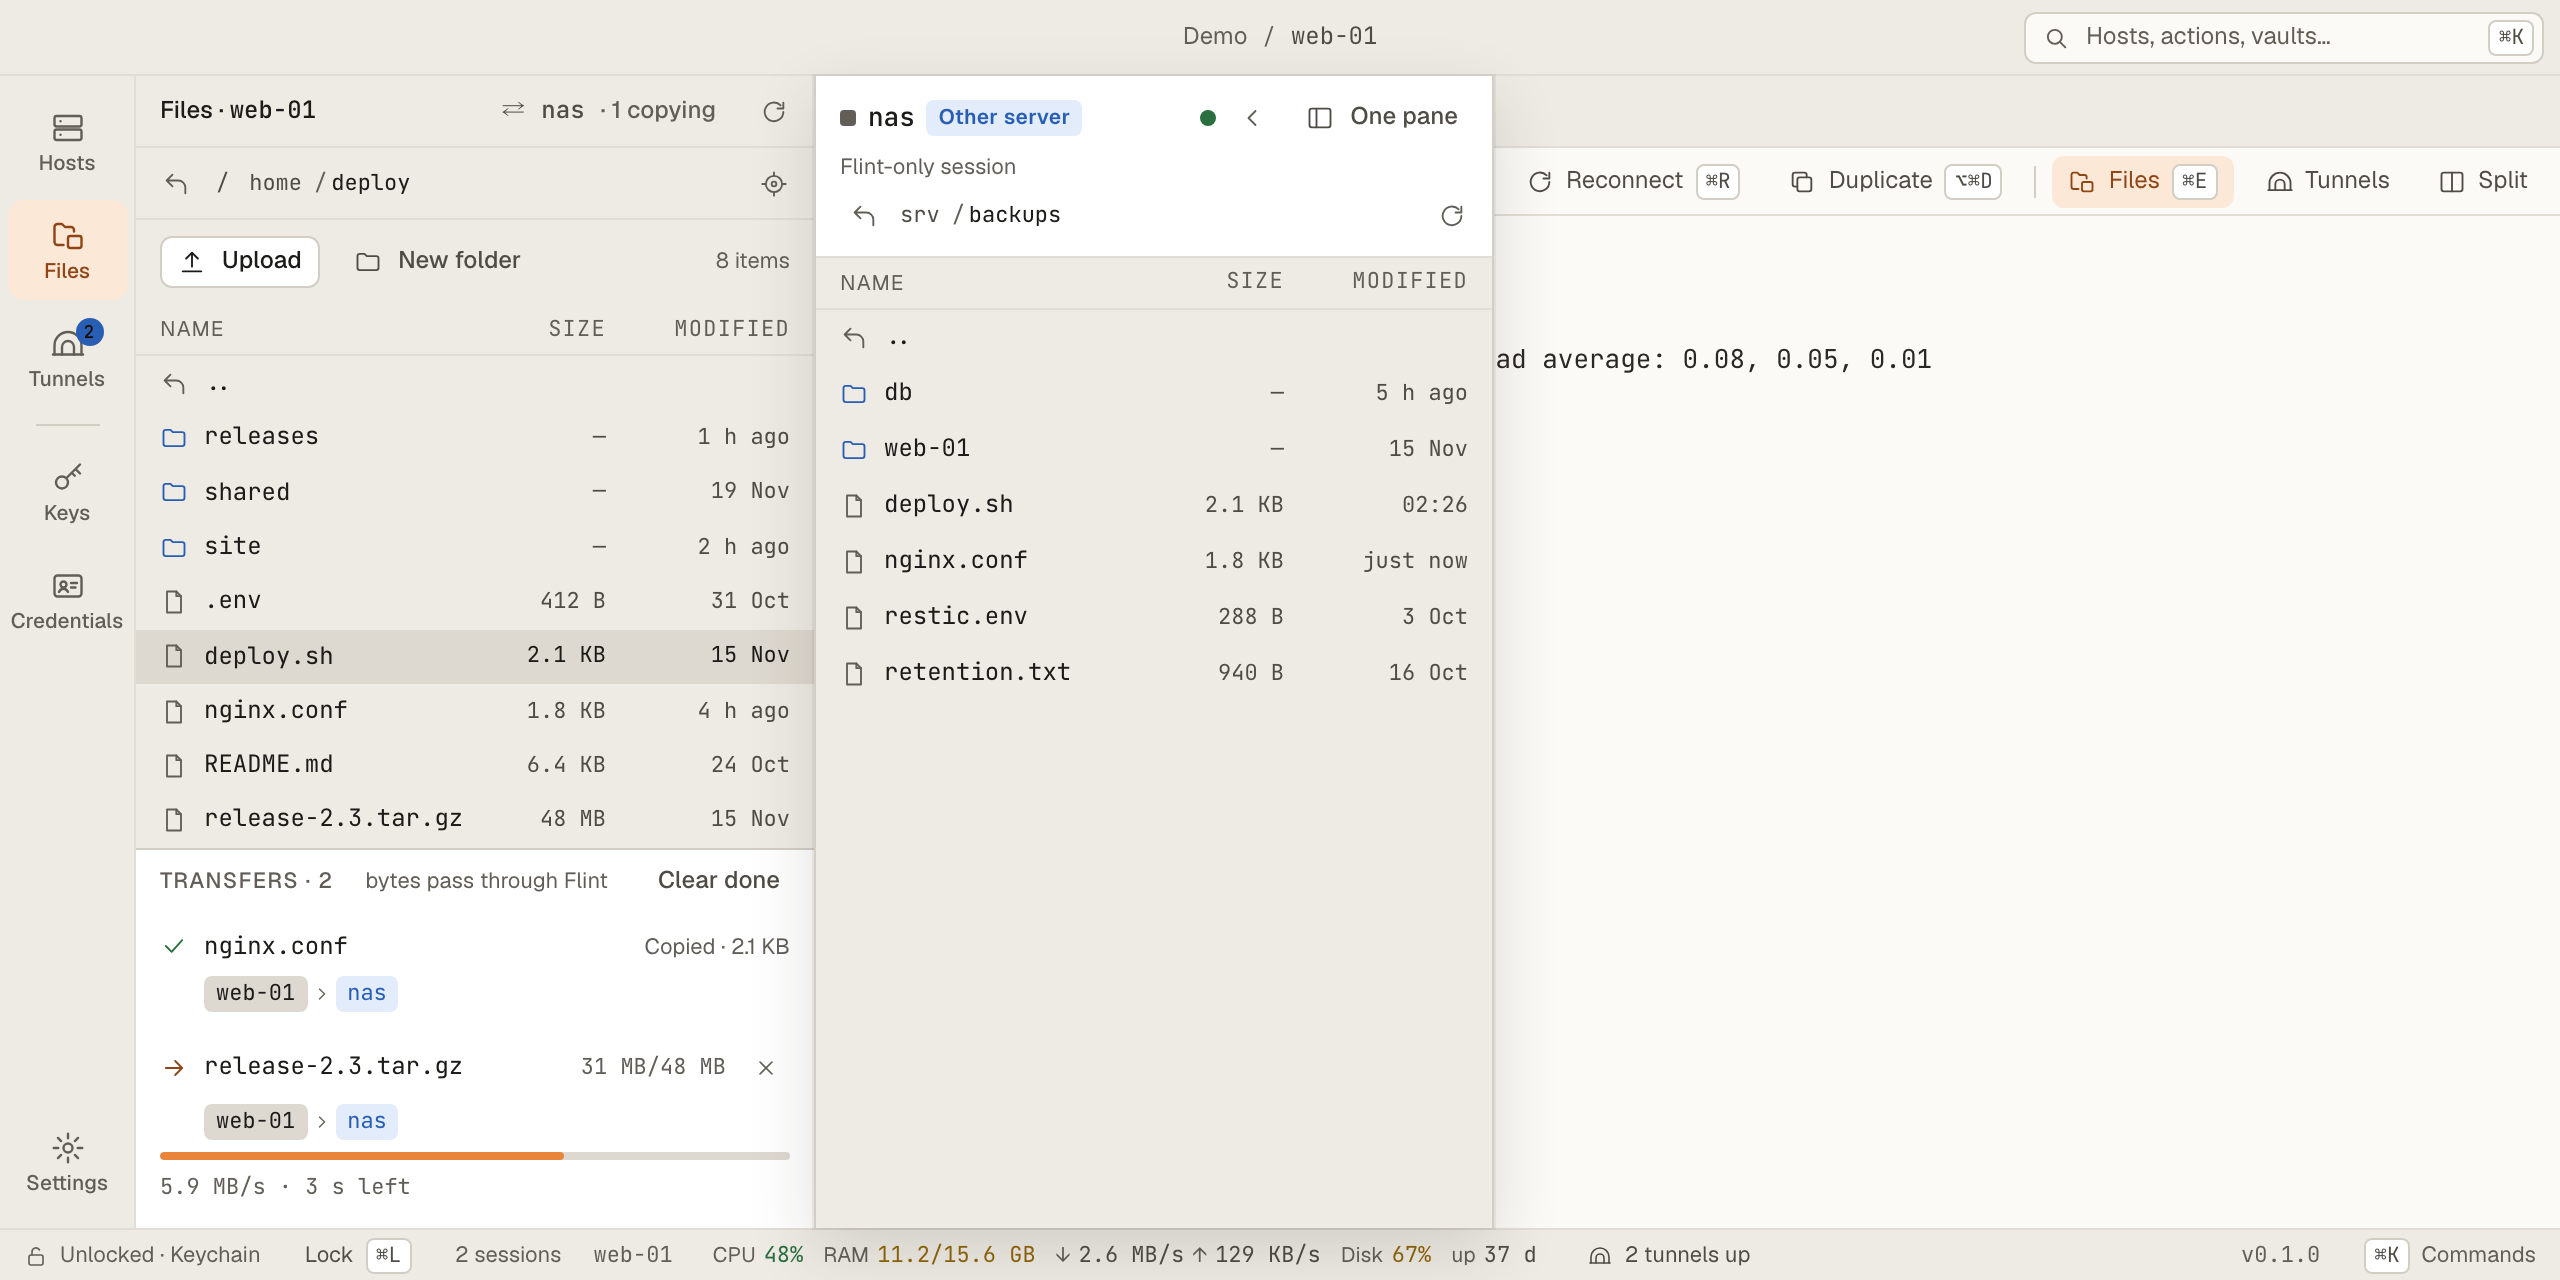
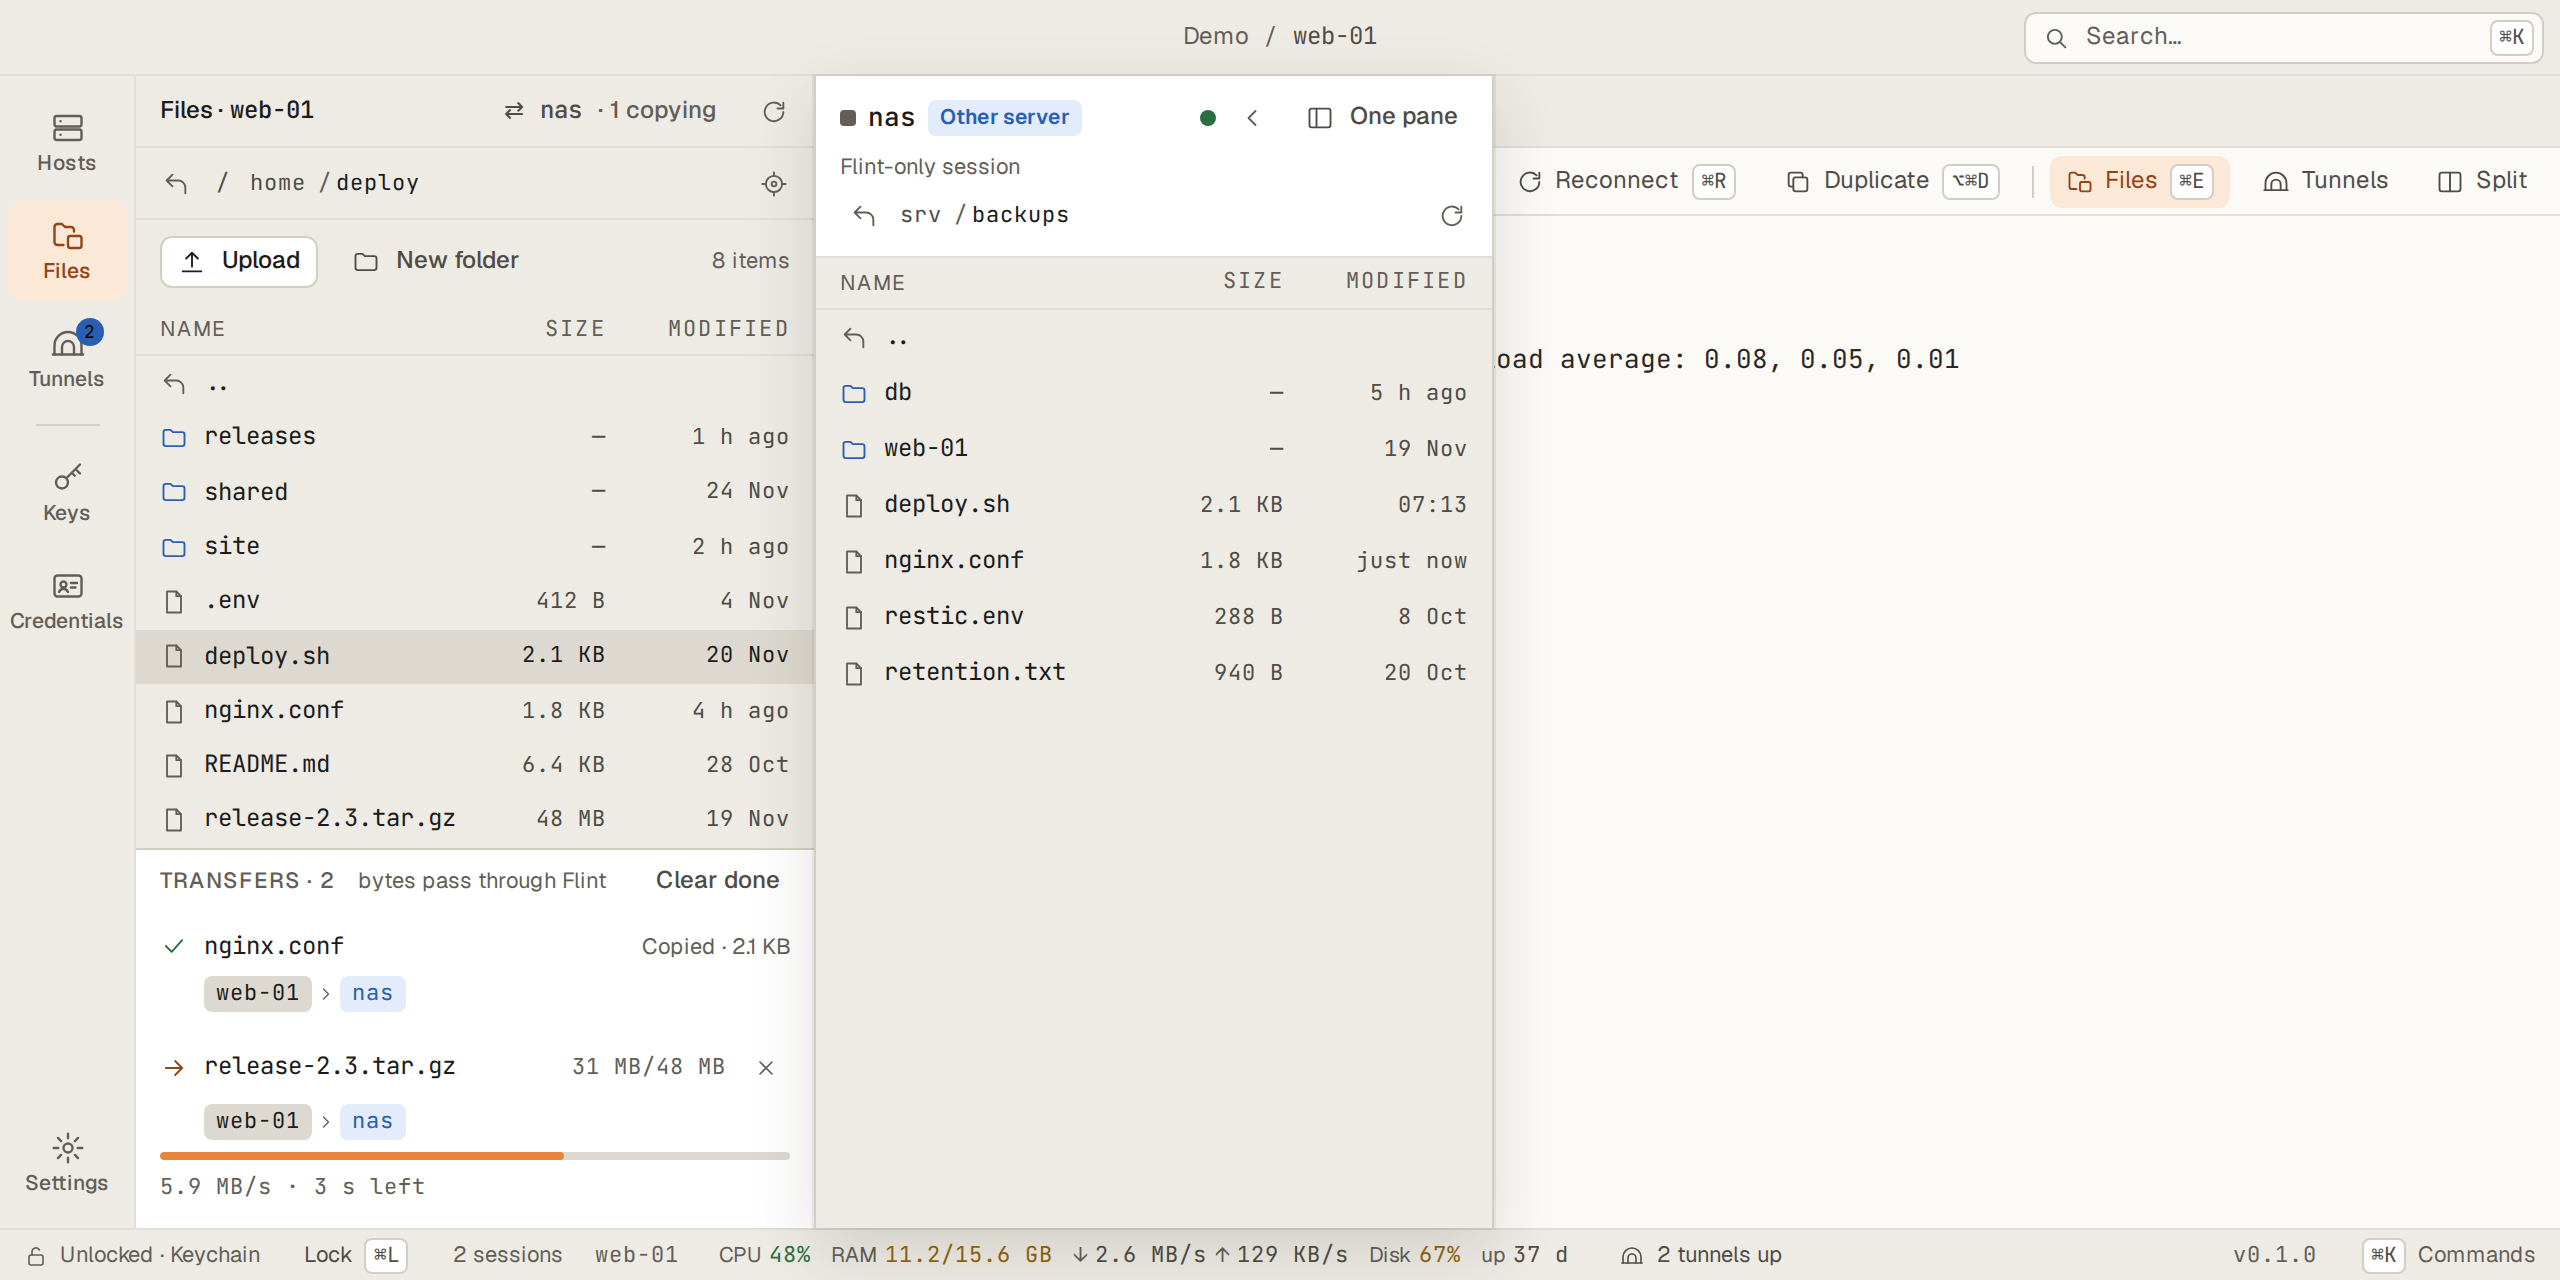
fix(ui): the title bar's search button reads "Search…" and stays on one line
On Windows in Spanish, "Hosts, acciones, bóvedas…" beside Ctrl+Shift+K wrapped
to two lines in the 260 px button. The button now says "Search…" / "Buscar…"
(the palette's field and the empty session area keep the full hint), its text
never wraps and ends in an ellipsis, and the chord never shrinks. Landing
screenshots re-taken (shots:gui).

diff --git a/ui/src/styles/primitives.css b/ui/src/styles/primitives.css
@@ -52,6 +52,9 @@ body { margin: 0; background: var(--surface-desk); }
 .app[data-os="linux"] .traffic { display: none; }
 .app[data-os="linux"] .tb-brand, .app[data-os="linux"] .wc { display: flex; }
 .palette-btn { margin-left: auto; width: 260px; height: 26px; display: flex; align-items: center; gap: var(--sp-2); padding: 0 var(--sp-1) 0 var(--sp-2); border: 1px solid var(--border-default); border-radius: var(--radius-sm); background: var(--surface-sunken); color: var(--text-tertiary); font-size: var(--fs-sm); }
+/* One line whatever the language and the chord's width (Spanish with Ctrl+Shift+K wrapped on Windows). */
+.palette-btn > .grow { min-width: 0; white-space: nowrap; overflow: hidden; text-overflow: ellipsis; }
+.palette-btn > .kbd { flex-shrink: 0; }
 .palette-btn:hover { border-color: var(--border-strong); color: var(--text-secondary); }
 
 /* Rail */

diff --git a/ui/src/shell/Shell.tsx b/ui/src/shell/Shell.tsx
@@ -446,7 +446,7 @@ export function Shell() {
         <div className="tb-brand"><Logo />Flint</div>
         <div className="tb-title">{crumb}</div>
         <button className="palette-btn" aria-label={t('shell.command_palette_chordlabel', { chordLabel: chordLabel('palette', os) })} onClick={() => setPalette({ hostsOnly: false })}>
-          <Icon name="search" size="sm" /><span className="grow" style={{ textAlign: 'left' }}>{t('shell.hosts_actions_vaults')}</span><Kbd action="palette" />
+          <Icon name="search" size="sm" /><span className="grow" style={{ textAlign: 'left' }}>{t('shell.search')}</span><Kbd action="palette" />
         </button>
       </header>
 
